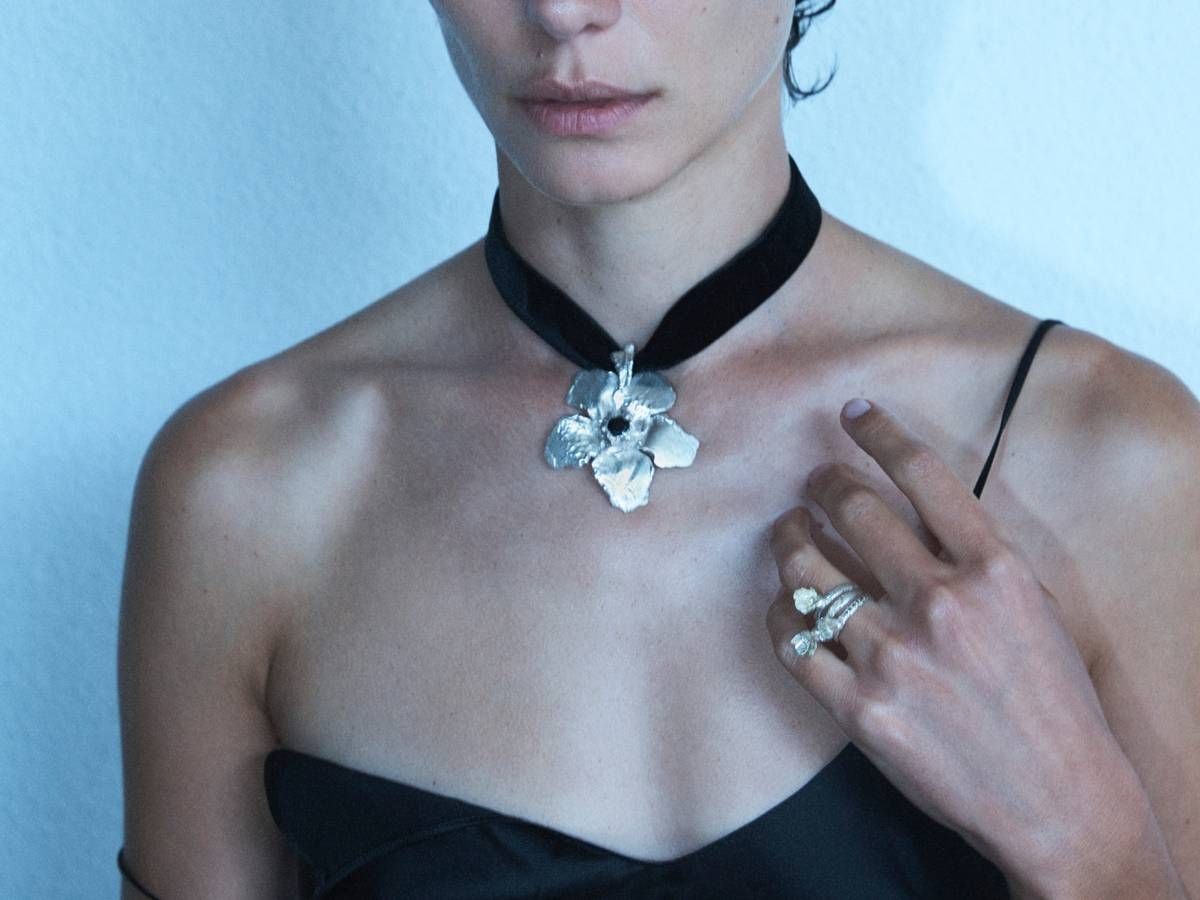
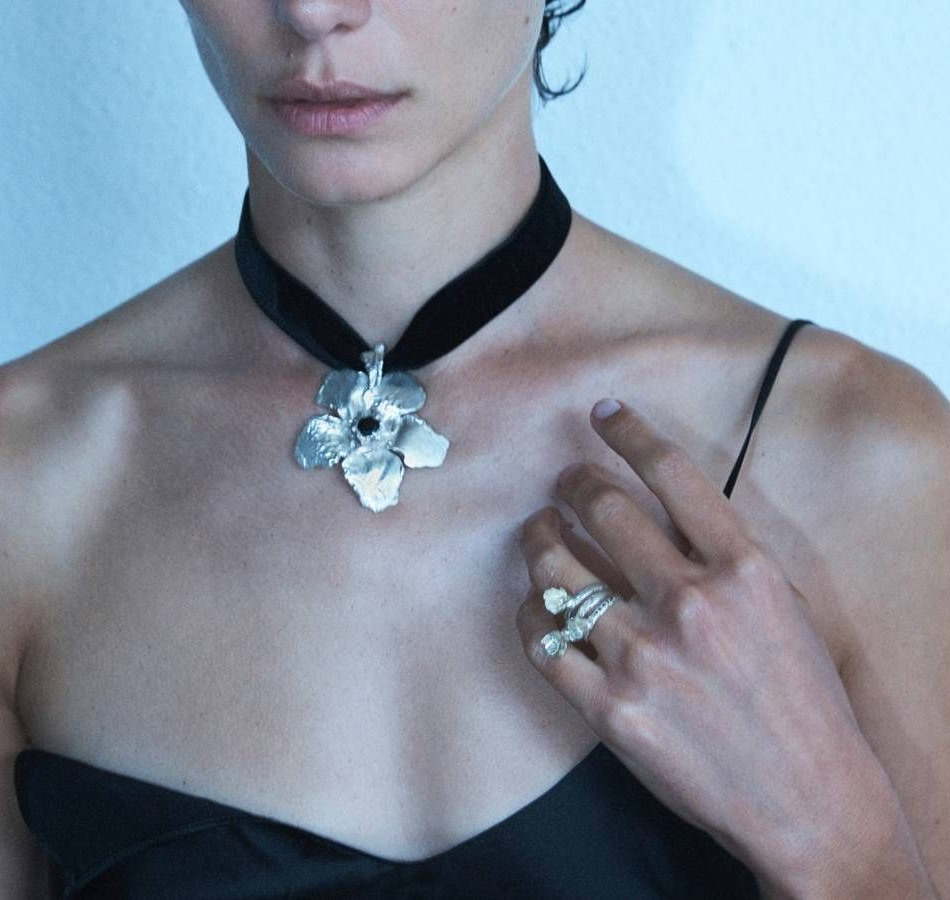
edicion  para mejorar la apariencia

diff --git a/styles.css b/styles.css
@@ -118,6 +118,7 @@ p {
   width: 100%;
   height: 100%;
   object-fit: cover;
+  object-position: center;
   display: block;
 }
 
@@ -242,7 +243,7 @@ p {
   color: var(--accent-blue);
   text-decoration: none;
   font-size: clamp(2rem, 4vw, 3rem);
-  font-weight: 300;
+  font-weight: 800;
   letter-spacing: 0.12em;
   font-family: "Alte Haas Grotesk", "Syne", sans-serif;
 }
@@ -1860,11 +1861,11 @@ p {
 }
 
 .contact-page-card {
-  padding: 1.8rem;
-  border-radius: 32px;
-  background: rgba(255, 255, 255, 0.95);
-  border: 1px solid rgba(43, 36, 32, 0.08);
-  box-shadow: var(--shadow);
+  padding: 0;
+  border-radius: 0;
+  background: transparent;
+  border: none;
+  box-shadow: none;
   color: #2B2420;
 }
 
@@ -1882,7 +1883,7 @@ p {
   border-radius: 0;
   background: transparent;
   border: none;
-  box-shadow: var(--shadow);
+  box-shadow: none;
   color: #2B2420;
 }
 
@@ -1948,10 +1949,10 @@ p {
 
 .contact-form-page {
   margin-top: 1.8rem;
-  padding: 1.5rem;
-  border-radius: 28px;
-  background: #ffffff;
-  border: 1px solid rgba(43, 36, 32, 0.08);
+  padding: 0;
+  border-radius: 0;
+  background: transparent;
+  border: none;
 }
 
 .size-guide-image-wrap {
@@ -2062,10 +2063,9 @@ p {
 
 .gift-card-grid {
   display: grid;
-  grid-template-columns: repeat(2, minmax(0, 1fr));
+  grid-template-columns: repeat(4, 1fr);
   gap: 1.5rem 2rem;
   margin-top: 2.5rem;
-  max-width: 700px;
 }
 
 .gift-card-shop-item {
@@ -2300,8 +2300,38 @@ p {
 
 .contact-form-page input,
 .contact-form-page textarea {
-  padding: 1.05rem 1.2rem;
-  border-radius: 24px;
+  padding: 0.6rem 0;
+  border-radius: 0;
+  border: none;
+  border-bottom: 1px solid rgba(43, 36, 32, 0.25);
+}
+
+.contact-confirmation {
+  margin-top: 1.8rem;
+  opacity: 0;
+  transition: opacity 0.5s ease;
+}
+
+.contact-confirmation.is-visible {
+  opacity: 1;
+}
+
+.contact-confirmation-main {
+  margin: 0 0 0.6rem;
+  font-family: "Cormorant Garamond", serif;
+  font-style: italic;
+  font-weight: 300;
+  font-size: clamp(1.6rem, 3vw, 2.2rem);
+  color: #2B2420;
+}
+
+.contact-confirmation-sub {
+  margin: 0;
+  font-family: "Montserrat", "Inter", sans-serif;
+  font-weight: 300;
+  font-size: 0.75rem;
+  letter-spacing: 0.1em;
+  color: rgba(43, 36, 32, 0.55);
 }
 
 .login-divider {
@@ -2523,10 +2553,10 @@ p {
   grid-template-columns: minmax(0, 1.05fr) minmax(360px, 0.95fr);
   gap: 2rem;
   padding: 2rem;
-  border-radius: 32px;
-  background: rgba(255, 255, 255, 0.88);
-  border: 1px solid rgba(43, 36, 32, 0.08);
-  box-shadow: var(--shadow);
+  border-radius: 0;
+  background: transparent;
+  border: none;
+  box-shadow: none;
 }
 
 .product-page-media {
@@ -2542,7 +2572,7 @@ p {
   place-items: center;
   padding: 1.4rem;
   background: #ffffff;
-  border-radius: 28px;
+  border-radius: 0;
 }
 
 .product-page-media > .product-thumb {
@@ -2599,8 +2629,10 @@ p {
 }
 
 .product-page-price {
-  font-family: "Syne", sans-serif;
+  font-family: "Montserrat", "Inter", sans-serif;
+  font-weight: 300;
   font-size: 1.5rem;
+  letter-spacing: 0.04em;
 }
 
 .installment-pill {
@@ -2608,9 +2640,9 @@ p {
   display: grid;
   gap: 0.2rem;
   padding: 0.9rem 1rem;
-  border-radius: 18px;
-  border: 1px solid rgba(43, 36, 32, 0.08);
-  background: rgba(255, 255, 255, 0.92);
+  border-radius: 0;
+  border: 1px solid rgba(43, 36, 32, 0.12);
+  background: transparent;
   color: #2B2420;
   text-align: left;
 }
@@ -2655,9 +2687,9 @@ p {
   display: inline-flex;
   align-items: center;
   gap: 0.9rem;
-  padding: 0.45rem 0.55rem;
-  border: 1px solid rgba(43, 36, 32, 0.08);
-  background: rgba(255, 255, 255, 0.92);
+  padding: 0.45rem 0;
+  border: none;
+  background: transparent;
 }
 
 .quantity-button {
@@ -2665,9 +2697,15 @@ p {
   height: 2.2rem;
   border: none;
   background: transparent;
-  color: #2B2420;
+  color: rgba(43, 36, 32, 0.35);
   font-size: 1.15rem;
   line-height: 1;
+  cursor: pointer;
+  transition: color 0.15s;
+}
+
+.quantity-button:hover {
+  color: #2B2420;
 }
 
 .quantity-value {
@@ -2688,9 +2726,9 @@ p {
   display: grid;
   gap: 0.3rem;
   padding: 1rem;
-  border-radius: 20px;
-  background: rgba(255, 255, 255, 0.84);
-  border: 1px solid rgba(43, 36, 32, 0.08);
+  border-radius: 0;
+  background: transparent;
+  border: 1px solid rgba(43, 36, 32, 0.12);
 }
 
 .product-page-meta span {
@@ -2708,6 +2746,19 @@ p {
   display: flex;
   gap: 0.8rem;
   margin-top: 0.6rem;
+}
+
+.product-page-actions .primary-button {
+  background: transparent;
+  color: #2B2420;
+  border: 1px solid rgba(43, 36, 32, 0.35);
+}
+
+.product-page-actions .primary-button:hover {
+  background: #2B2420;
+  color: #f5ede6;
+  border-color: #2B2420;
+  transform: none;
 }
 
 .product-thumb {
@@ -3308,6 +3359,10 @@ p {
 }
 
 @media (max-width: 760px) {
+  .hero-media img {
+    object-position: 70% center;
+  }
+
   .topbar,
   .section-heading,
   .product-footer,
@@ -3322,10 +3377,13 @@ p {
   .manifesto-grid,
   .subpage-hero,
   .product-page-card,
-  .contact-form,
-  .gift-card-grid {
+  .contact-form {
     display: grid;
     grid-template-columns: 1fr;
+  }
+
+  .gift-card-grid {
+    grid-template-columns: repeat(2, 1fr);
   }
 
   .catalog-carousel {

diff --git a/js/static-pages.js b/js/static-pages.js
@@ -26,6 +26,7 @@ const els = {
   searchForm: document.querySelector("[data-search-form]"),
   searchInput: document.querySelector("[data-search-input]"),
   currencyButtons: Array.from(document.querySelectorAll("[data-currency]")),
+  contactForm: document.querySelector("#contact-form"),
 };
 
 const searchRoutes = [
@@ -213,6 +214,22 @@ function bindEvents() {
   els.overlay?.addEventListener("click", () => {
     setCartOpen(false);
     setMenuOpen(false);
+  });
+
+  els.contactForm?.addEventListener("submit", (event) => {
+    event.preventDefault();
+    const confirmation = document.createElement("div");
+    confirmation.className = "contact-confirmation";
+    confirmation.innerHTML = `
+      <p class="contact-confirmation-main">Tu consulta fue enviada.</p>
+      <p class="contact-confirmation-sub">Te respondemos a la brevedad.</p>
+    `;
+    els.contactForm.replaceWith(confirmation);
+    requestAnimationFrame(() => {
+      requestAnimationFrame(() => {
+        confirmation.classList.add("is-visible");
+      });
+    });
   });
 }
 

diff --git a/contacto.html b/contacto.html
@@ -52,7 +52,7 @@
           </p>
         </div>
 
-        <form class="contact-form contact-form-page">
+        <form class="contact-form contact-form-page" id="contact-form">
           <label>
             <span>Nombre</span>
             <input type="text" placeholder="Tu nombre" />
@@ -65,7 +65,7 @@
             <span>Mensaje</span>
             <textarea rows="6" placeholder="Contanos que pieza te interesa"></textarea>
           </label>
-          <button class="primary-button full-width" type="button">
+          <button class="primary-button full-width" type="submit">
             Enviar consulta
           </button>
         </form>

diff --git a/tarjeta-regalo.html b/tarjeta-regalo.html
@@ -35,6 +35,10 @@
           <button class="cart-button icon-button" type="button" data-toggle-cart aria-label="Abrir carrito">
             <span class="icon-bag"></span>
           </button>
+          <div class="currency-switch topbar-currency">
+            <button type="button" data-currency="ARS">ARS</button>
+            <button type="button" data-currency="USD">USD</button>
+          </div>
         </div>
       </nav>
     </header>
